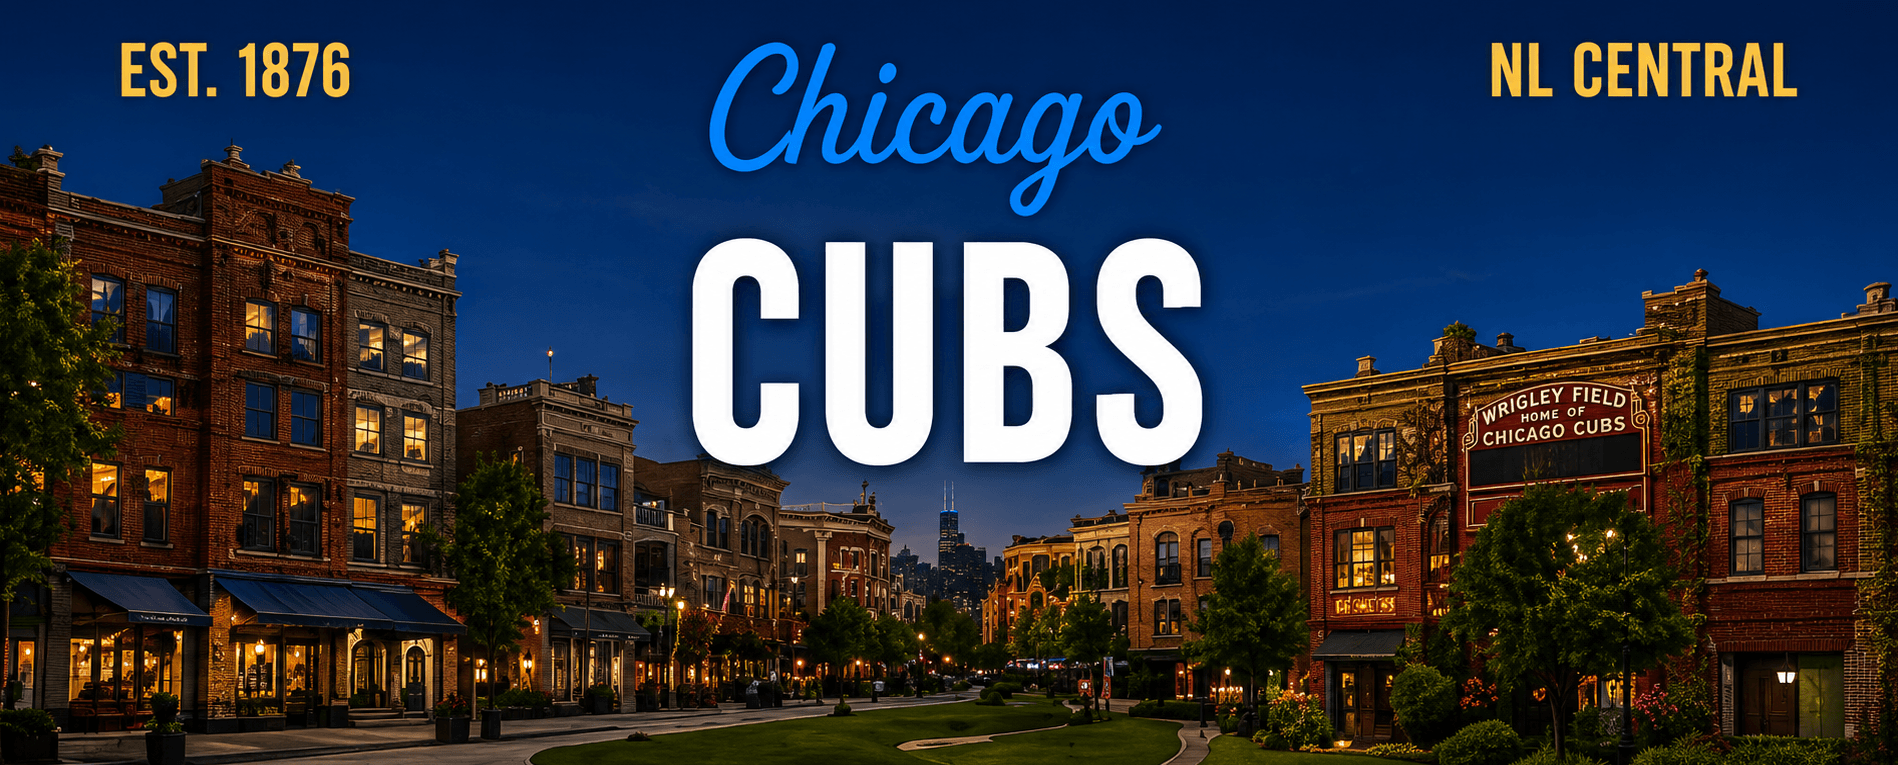
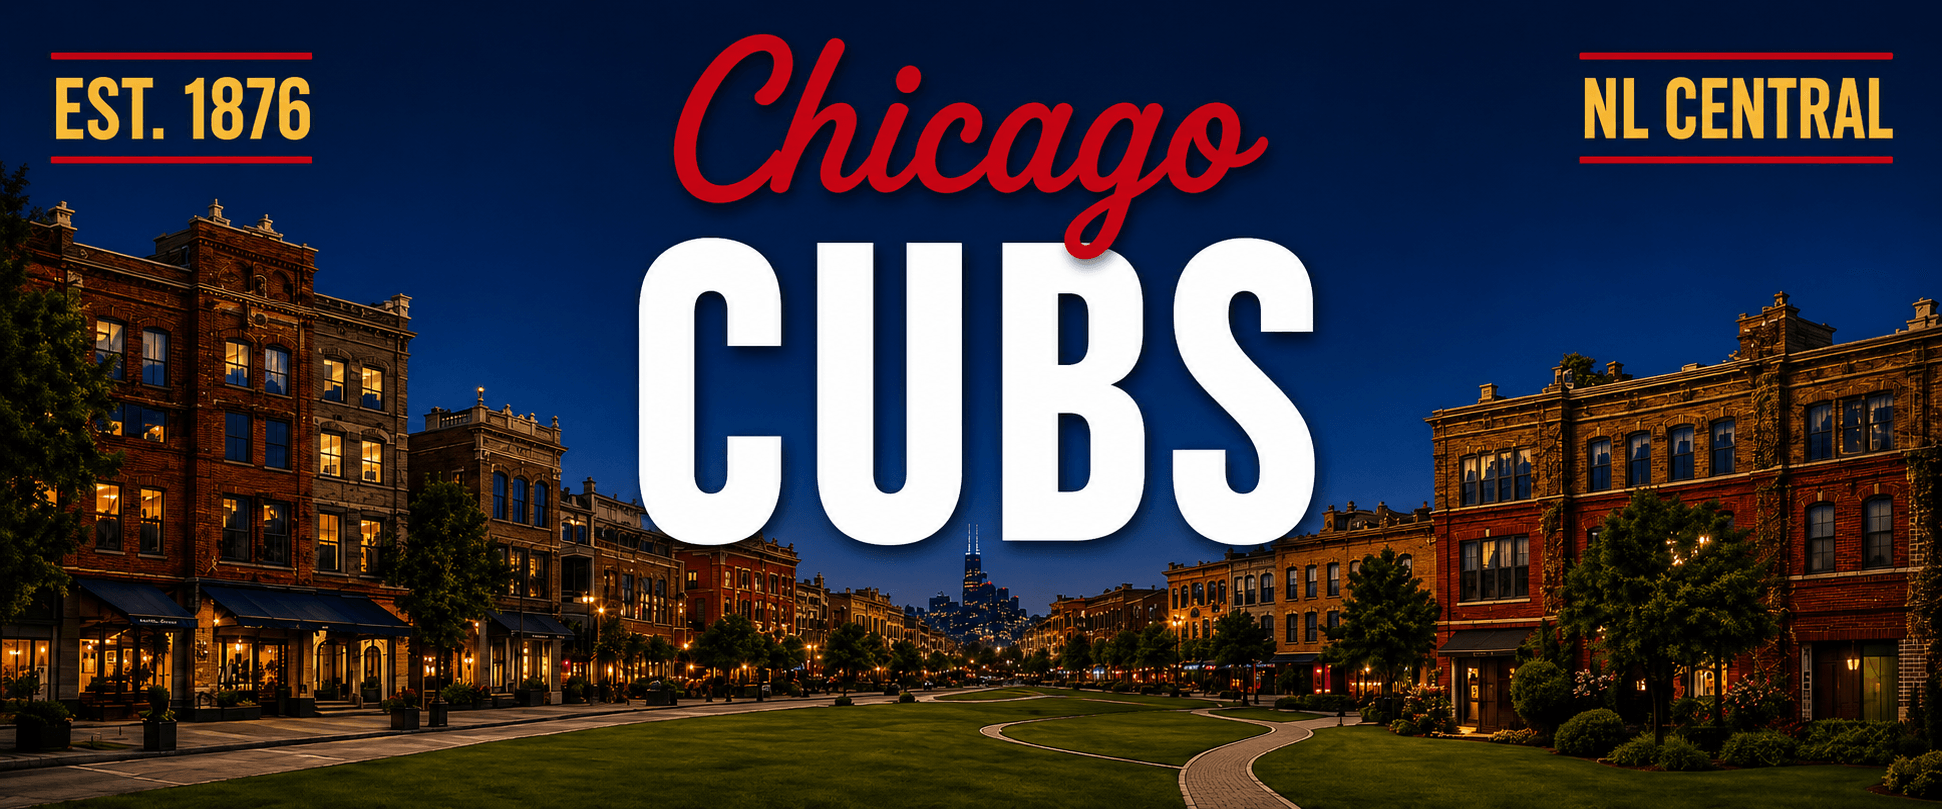
Bring Cubs and Reds onto the header box natively
Both came in as a rounded card on a white page, so the import trimmed the
white and left them a little wider than the header's 2.4:1 — Cubs at
1898x765, Reds at 1890x789 — and the box took the difference off their
sides. The new art is 1942x809 with no white to trim, so it lands on the
box exactly.

Blue Jays and Rangers are new art at the size they already were; only the
bytes change.

diff --git a/lib/teamBanners.ts b/lib/teamBanners.ts
@@ -25,8 +25,8 @@ export const TEAM_BANNERS: Record<string, { width: number; height: number }> = {
   "mets": { width: 1892, height: 791 },
   "phillies": { width: 1890, height: 757 },
   "nationals": { width: 1942, height: 809 },
-  "cubs": { width: 1898, height: 765 },
-  "reds": { width: 1890, height: 789 },
+  "cubs": { width: 1942, height: 809 },
+  "reds": { width: 1942, height: 809 },
   "brewers": { width: 1942, height: 809 },
   "pirates": { width: 1942, height: 809 },
   "cardinals": { width: 1942, height: 809 },
